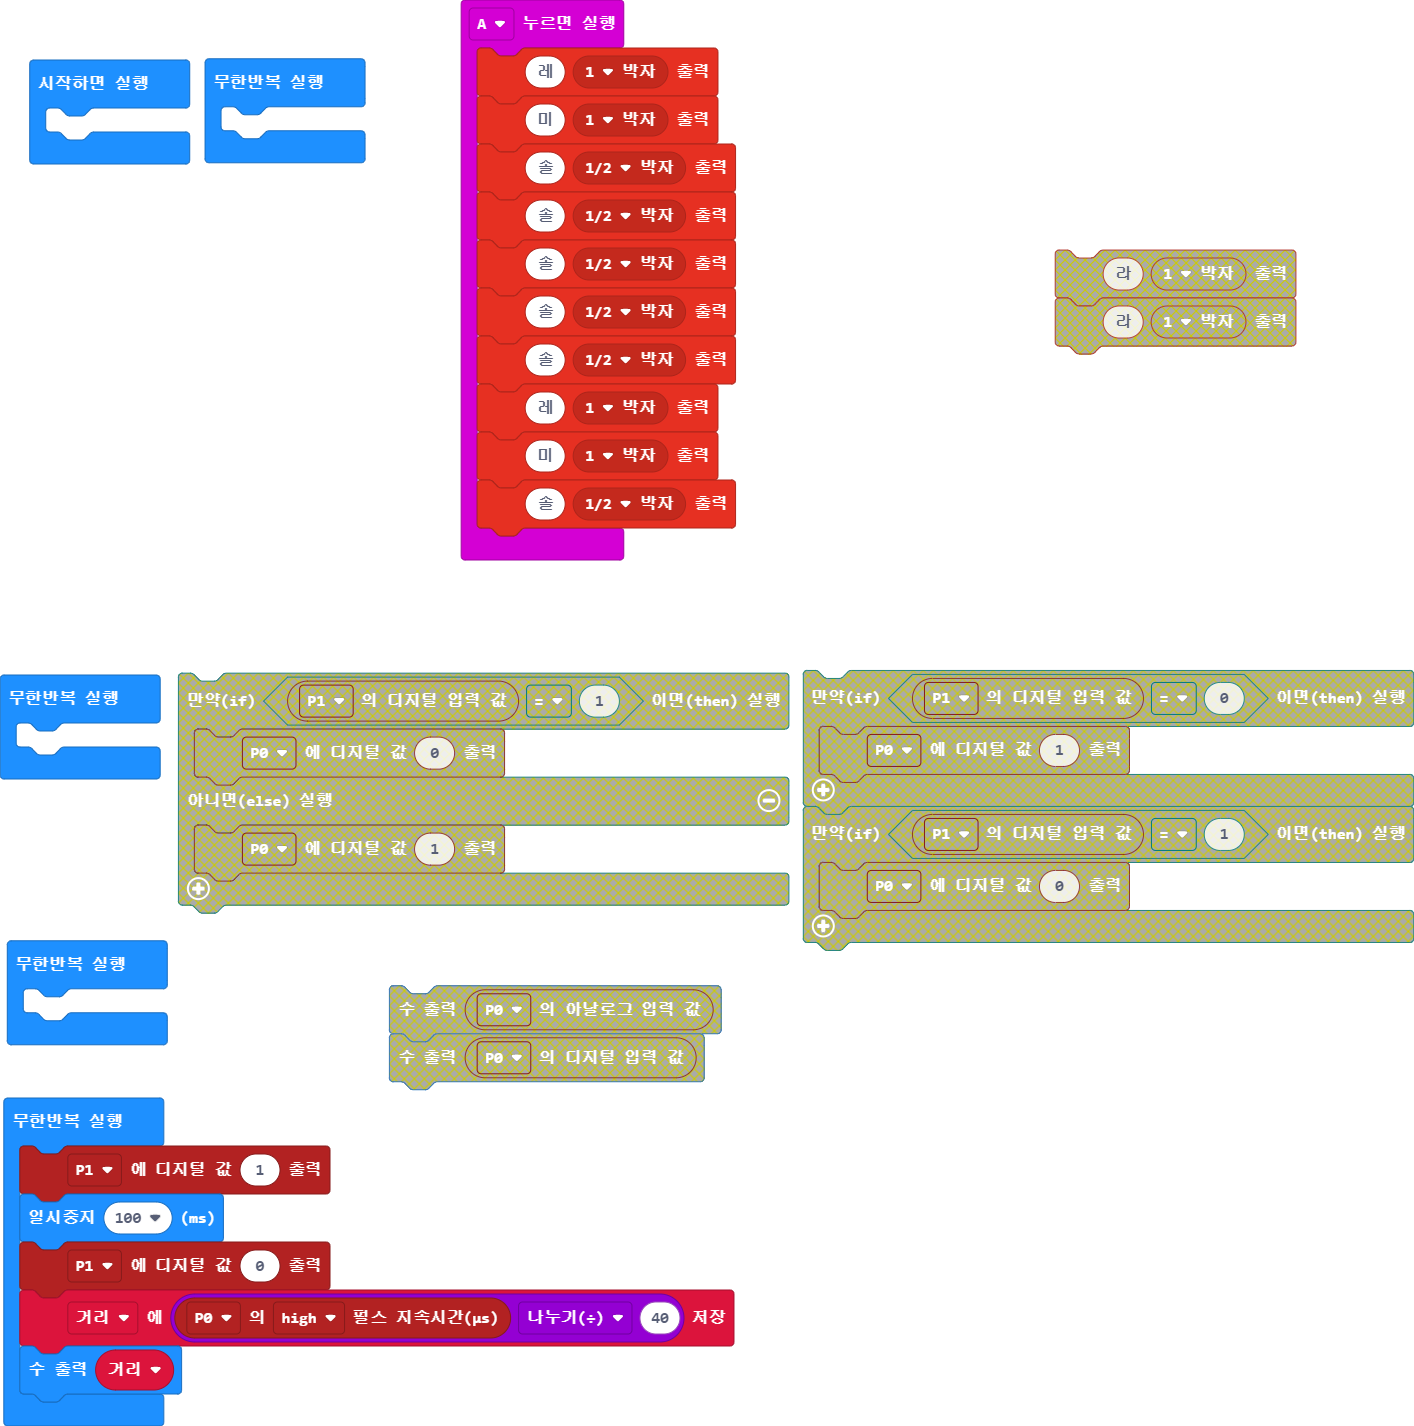
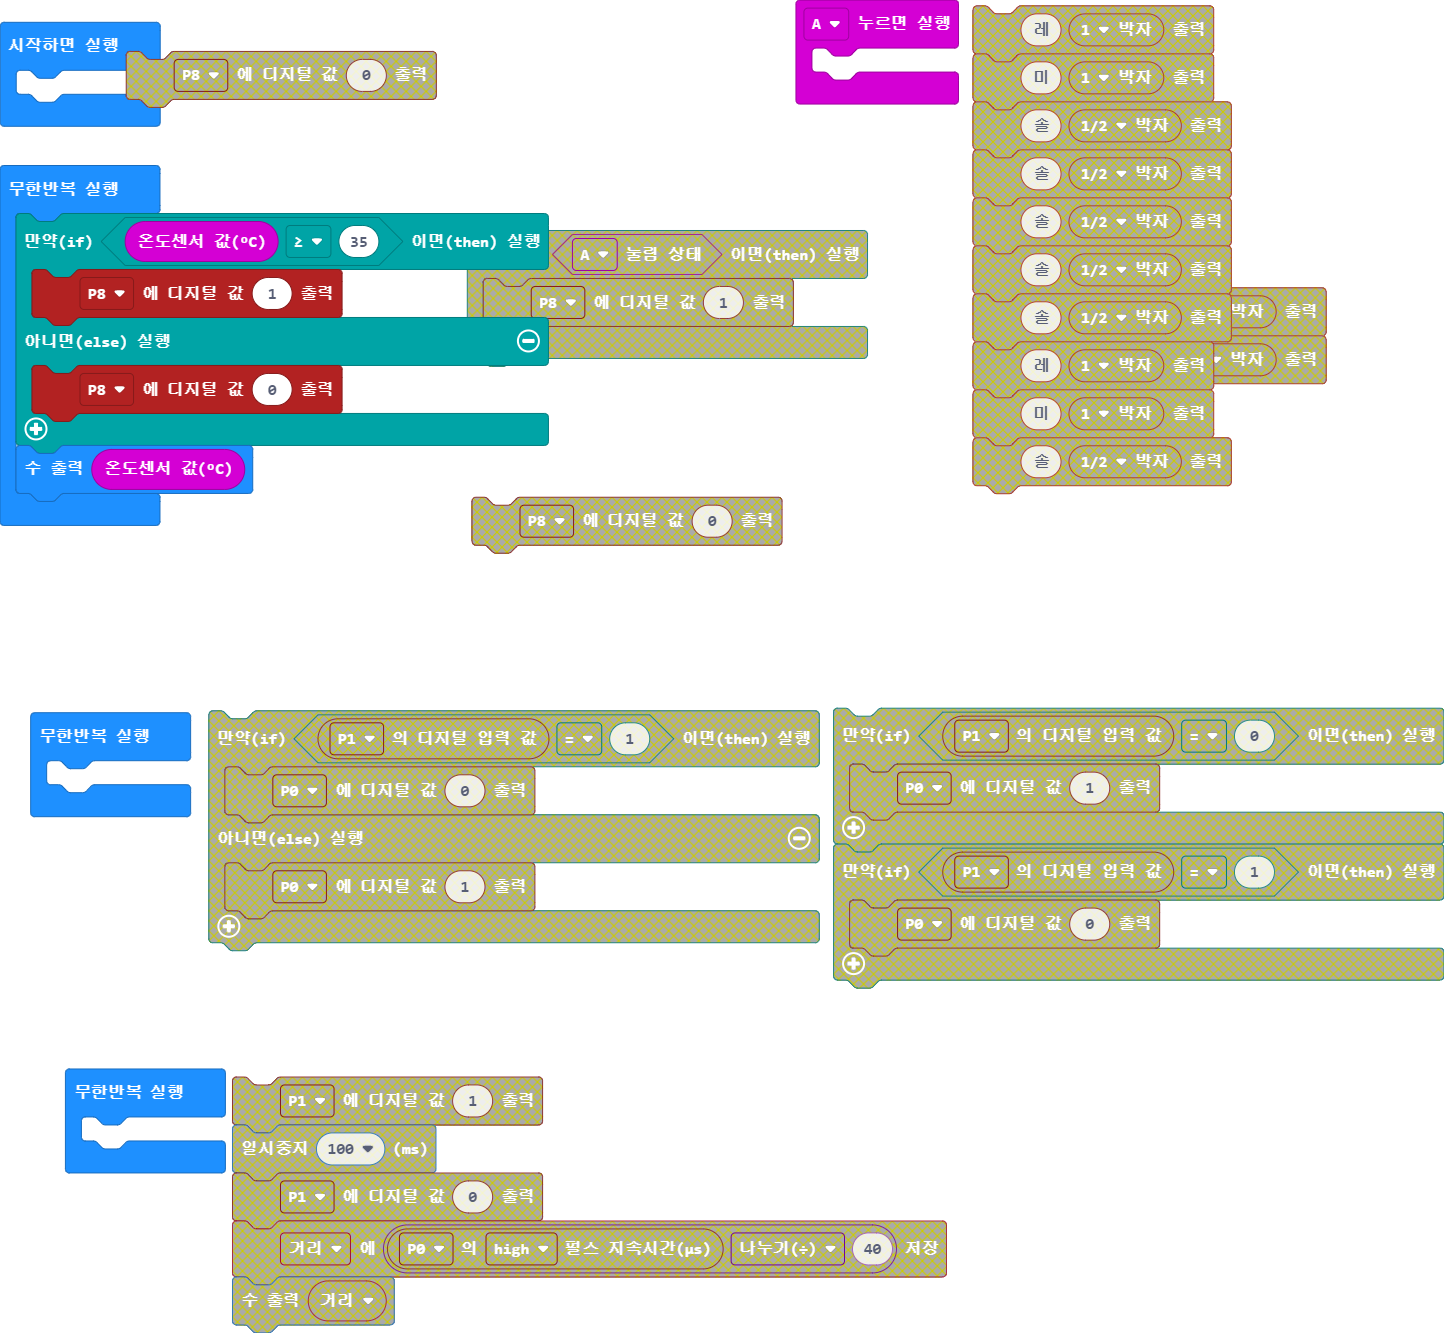
main.blocks, main.ts 업데이트하기

diff --git a/main.ts b/main.ts
@@ -1,29 +1,17 @@
-let 거리 = 0
 input.onButtonPressed(Button.A, function () {
-    music.playTone(294, music.beat(BeatFraction.Whole))
-    music.playTone(330, music.beat(BeatFraction.Whole))
-    music.playTone(392, music.beat(BeatFraction.Half))
-    music.playTone(392, music.beat(BeatFraction.Half))
-    music.playTone(392, music.beat(BeatFraction.Half))
-    music.playTone(392, music.beat(BeatFraction.Half))
-    music.playTone(392, music.beat(BeatFraction.Half))
-    music.playTone(294, music.beat(BeatFraction.Whole))
-    music.playTone(330, music.beat(BeatFraction.Whole))
-    music.playTone(392, music.beat(BeatFraction.Half))
+	
+})
+basic.forever(function () {
+    if (input.temperature() >= 35) {
+        pins.digitalWritePin(DigitalPin.P8, 1)
+    } else {
+        pins.digitalWritePin(DigitalPin.P8, 0)
+    }
+    basic.showNumber(input.temperature())
 })
 basic.forever(function () {
 	
 })
 basic.forever(function () {
 	
-})
-basic.forever(function () {
-	
-})
-basic.forever(function () {
-    pins.digitalWritePin(DigitalPin.P1, 1)
-    basic.pause(100)
-    pins.digitalWritePin(DigitalPin.P1, 0)
-    거리 = pins.pulseIn(DigitalPin.P0, PulseValue.High) / 40
-    basic.showNumber(거리)
 })
